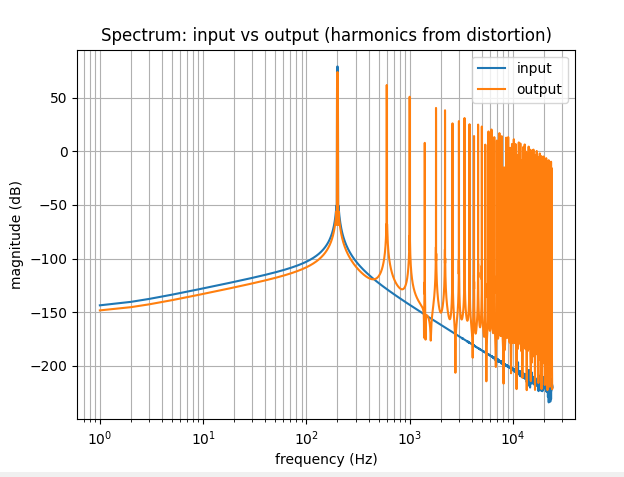
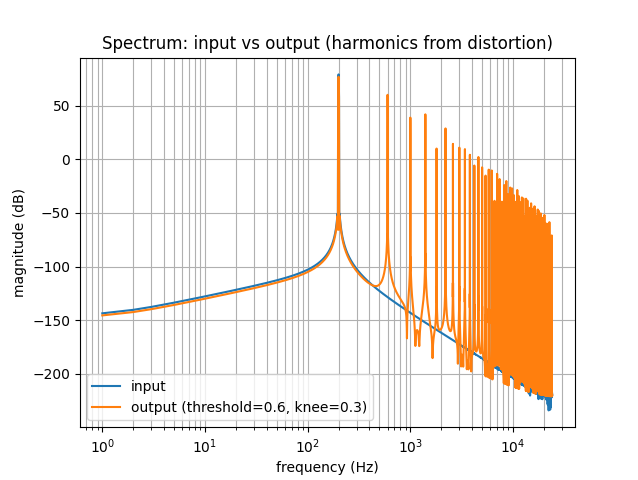
Fix (dsp): replace foldback-prone smootherstep knee with quartic curve

Changed region(s): [[0.0, 0.0587, 0.9135, 0.9979]]

diff --git a/prototype/waveshaper.py b/prototype/waveshaper.py
@@ -1,20 +1,13 @@
 import numpy as np
 import matplotlib.pyplot as plt
 
-def smoothstep(u):
-    u = np.clip(u, 0.0, 1.0)
-    return u*u*(3 - 2*u)
-
-
-def smootherstep(u):
-    u = np.clip(u, 0.0, 1.0)
-    return  u*u*u*(u*(u*6 - 15) + 10)
-
+def quartic(u):
+    return u - u**3 + 1/2 * u **4
 
 def waveshape(x, threshold, knee_frac):
     x = np.asarray(x, dtype=np.float32)
     t = np.clip(threshold, 0.01, 1.0)
-    k = np.clip(knee_frac, 0.0, 0.49)
+    k = np.clip(knee_frac, 0.0, 0.5)
 
     a = t * (1.0 - k)   # knee start
     b = t * (1.0 + k)   # knee end
@@ -38,8 +31,8 @@ def waveshape(x, threshold, knee_frac):
     if np.any(m2):
         u = (ax[m2] - a) / (b - a)
         u = np.clip(u, 0.0, 1.0)
-        s = smootherstep(u)
-        yk = (1.0 - s) * ax[m2] + s * t
+        q = quartic(u)
+        yk = a + (b-a) * q
         y[m2] = sign[m2] * yk
 
     return y
@@ -53,9 +46,9 @@ if __name__ == "__main__":
     xs = np.linspace(-1.2, 1.2, 4000)
 
     settings = [
-        (0.6, 0.0),  # hard clip at +-0.6
-        (0.6, 0.1),  # slightly softer knee
-        (1, 0.5),    # wide knee
+        (0.7, 0.0),  # hard clip at +-0.7
+        (0.6, 0.3),  # softer knee
+        (0.4, 0.5),  # wide knee
         (0.3, 0.1),  # lower threshold = heavier distortion
     ]
 
@@ -73,16 +66,21 @@ if __name__ == "__main__":
     # (2) Time domain: sine before/after
     fs = 48000
     f = 200
-    dur = 256 / 48000
-    n = int(fs * dur)
-    tvec = np.arange(n) / fs
+    buffer_size_samples = 256
+    duration_seconds = buffer_size_samples / fs
+    total_samples = int(fs * duration_seconds)
+    tvec = np.arange(total_samples) / fs
+    tvec_ms = tvec * 1000
 
+    # select settings
+    threshold = settings[1][0]
+    knee = settings[1][1]
     x = 0.9 * np.sin(2*np.pi*f*tvec)
-    y = waveshape(x, threshold=0.5, knee_frac=0.4)
+    y = waveshape(x, threshold=threshold, knee_frac=knee)
 
     plt.figure()
-    plt.plot(tvec*1000, x, label="input")
-    plt.plot(tvec*1000, y, label="output")
+    plt.plot(tvec_ms, x, label="input")
+    plt.plot(tvec_ms, y, label=f"output (threshold={threshold}, knee={knee})")
     plt.title("Time domain: sine before/after waveshaping")
     plt.xlabel("time (ms)")
     plt.ylabel("amplitude")
@@ -96,7 +94,8 @@ if __name__ == "__main__":
     tvec = np.arange(n) / fs
 
     x = 0.9 * np.sin(2*np.pi*f*tvec)
-    y = waveshape(x, threshold=0.4, knee_frac=0.0)
+    knee = settings[1][1]
+    y = waveshape(x, threshold=threshold, knee_frac=knee)
 
     w = np.blackman(n)
     X = np.fft.rfft(x * w)
@@ -105,22 +104,10 @@ if __name__ == "__main__":
 
     plt.figure()
     plt.semilogx(freqs[1:], 20*np.log10(np.abs(X[1:]) + 1e-12), label="input")
-    plt.semilogx(freqs[1:], 20*np.log10(np.abs(Y[1:]) + 1e-12), label="output")
+    plt.semilogx(freqs[1:], 20*np.log10(np.abs(Y[1:]) + 1e-12), label=f"output (threshold={threshold}, knee={knee})")
     plt.title("Spectrum: input vs output (harmonics from distortion)")
     plt.xlabel("frequency (Hz)")
     plt.ylabel("magnitude (dB)")
     plt.grid(True, which="both")
     plt.legend()
-    plt.show()
-
-    Y = np.fft.rfft(y)
-    freqs = np.fft.rfftfreq(n, 1/fs)
-    plt.semilogx(freqs[1:], 20*np.log10(np.abs(Y[1:]) + 1e-12))
-    plt.grid(True, which="both")
-    plt.title("Spectrum: input vs output (harmonics from distortion)")
-    plt.xlabel("frequency (Hz)")
-    plt.ylabel("magnitude (linear)")
-    plt.grid(True, which="both")
-    plt.legend()
-    plt.show()
     plt.show()

diff --git a/effects/Distortion.cpp b/effects/Distortion.cpp
@@ -27,7 +27,7 @@ void HTekDistortionEffect::reset()
     _postLPF.reset();
 }
 
-inline float HTekDistortionEffect::_waveshape(float x, float threshold, float kneeFrac) noexcept
+inline float HTekDistortionEffect::waveshape(float x, float threshold, float kneeFrac) noexcept
 {
     const float t = juce::jlimit(0.05f, 1.0f, threshold);
     const float knee = juce::jlimit(0.0f, 0.5f, kneeFrac);
@@ -38,20 +38,28 @@ inline float HTekDistortionEffect::_waveshape(float x, float threshold, float kn
     const float sign = (x >= 0.0f) ? 1.0f : -1.0f;
 
     const float absX = x >= 0 ? x : -x;
-    // Region 1
-    if (absX <= a) // normally assignment falls in Region 3 but since we'll get the same result with |x| = a we avoid the Region 3 extra calculations
+    /* Region 1 (linear region)*/
+    if (absX <= a)
         return x;
 
-    // Region 2
-    if (absX >= b) // normally assignment falls in Region 3 but since we'll get the same result with |x| = b we avoid the Region 3 extra calculations
+    /* Region 3 (hard-clip region) */
+    if (absX >= b)
         return sign * t;
     
-    // Region 3 https://en.wikipedia.org/wiki/Smoothstep
-    // Map ax in [a,b] to u in [0,1], then smoothstep to interpolate to hard clip.
-    const float u = (absX - a) / (b - a);
-    // const float s = u * u * (3.0f - 2.0f * u); // smoothstep
-    const float s = u*u*u*(u*(u*6.0f - 15.0f) + 10.0f); // smootherstep
-    const float y = (1.0f - s) * absX + s * t;
+    /* Region 2 (knee region) */
+    // Map ax in [a,b] to u in [0,1].
+    const float u  = (absX - a) / (b - a);
+    // C^2 quartic transition
+    const float u2 = u * u;
+    const float u3 = u2 * u;
+    const float u4 = u3 * u;
+    const float q = u - u3 + 0.5f * u4; //  q has no audio amplitude scale here
+
+    // convert the normalized curved progress back to output amplitude.
+    // |-> at start q = 0 => y = a
+    // |-> at the end q = 0.5 => y = (a+b)/2 = t
+    // |-> during the transition from start to end => quartic transition
+    const float y = a + (b - a) * q; 
     return sign * y;
 }
 
@@ -78,7 +86,7 @@ void HTekDistortionEffect::process (juce::dsp::AudioBlock<float>& block) noexcep
     _preHPF.process (ctx);
 
     const float b  = juce::jlimit (-0.5f, 0.5f, p.bias);
-    const float y0 = _waveshape (b, p.threshold, p.knee);
+    const float y0 = waveshape (b, p.threshold, p.knee);
 
     for (int ch = 0; ch < numChannels; ++ch)
     {
@@ -89,7 +97,7 @@ void HTekDistortionEffect::process (juce::dsp::AudioBlock<float>& block) noexcep
             const float dry = data[i];
             const float x   = dry * drive;
 
-            float y = _waveshape (x + b, p.threshold, p.knee) - y0; // DC-correction (subtract y0 = f(b)) -> y = f(x+b) - f(b) and if x = 0 then y = 0
+            float y = waveshape (x + b, p.threshold, p.knee) - y0; // DC-correction (subtract y0 = f(b)) -> y = f(x+b) - f(b) and if x = 0 then y = 0
             y *= outGain;
 
             data[i] = dry + (y - dry) * mix; // dry*(1−mix) + y*mix but with 3 operations than 4

diff --git a/effects/tests/DistortionTests.cpp b/effects/tests/DistortionTests.cpp
@@ -66,6 +66,9 @@ TEST_CASE("Waveshaper: Region 2 / Hard clipping")
 
 TEST_CASE("Waveshaper: Region 3 (knee) properties")
 {
+    //input knee: ∣x∣ travels from a to b
+    // output knee: ∣y∣ travels from a to t
+    // output never exceeds the input magnitude
     const float t    = 0.5f;
     const float knee = 0.2f;
 
@@ -79,7 +82,6 @@ TEST_CASE("Waveshaper: Region 3 (knee) properties")
     REQUIRE(HTekDistortionEffect::waveshapeTest(-b, t, knee) == Catch::Approx(-t).margin( 1e-6f));
 
     const int N = 1000;
-    float prevAbsY = 0.0f;
 
     for (int i = 1; i < N; ++i)
     {
@@ -94,13 +96,49 @@ TEST_CASE("Waveshaper: Region 3 (knee) properties")
             // sign preserved
             REQUIRE((y >= 0.0f) == (x >= 0.0f));
 
-            // |y| in range  (|x|, t)
-            // as |y| is a weighted average between |x| and t -> y = (1-s) * |x| + s * t
-            const float lower = std::min(absX, t);
-            const float upper = std::max(absX, t);
-            REQUIRE(absY >= lower - 1e-6f);
-            REQUIRE(absY <= upper + 1e-6f);
+            // |y| in range  (a, t)
+            REQUIRE(absY >= a - 1e-6f);
+            REQUIRE(absY <= t + 1e-6f);
+
+            // |y| <= |x|
+            REQUIRE(absY <= absX + 1e-6f);
         }
+    }
+}
+
+TEST_CASE("Waveshaper: Region 3 (knee) is strictly monotonic")
+{
+    const float t    = 0.8f;
+    const float knee = 0.1f;
+
+    const float a = t * (1.0f - knee);
+    const float b = t * (1.0f + knee);
+
+    /* ! Do not use an extremely large N here !
+                    Why?
+    * Near b, the quartic becomes almost flat because its
+    * derivative approaches zero. With float precision,
+    * two extremely close input values can round to exactly
+    * the same output float!
+    */
+    constexpr int N = 64;
+
+    float previousX = a;
+    float previousY = HTekDistortionEffect::waveshapeTest(previousX, t, knee);
+    constexpr float du = 1.0f / static_cast<float>(N);
+    for (int i = 1; i <= N; ++i)
+    {
+        const float u = static_cast<float>(i) * du;
+        const float x = a + (b - a) * u;
+
+        const float y = HTekDistortionEffect::waveshapeTest(x, t, knee);
+
+        // Strict monotonicity: x increased, therefore y must also increase.
+        REQUIRE(x > previousX);
+        REQUIRE(y > previousY);
+
+        previousX = x;
+        previousY = y;
     }
 }
 

diff --git a/effects/Distortion.hpp b/effects/Distortion.hpp
@@ -28,7 +28,7 @@ class HTekDistortionEffect final : public IEffect
         static float waveshapeTest(float x, float threshold, float kneeFrac) noexcept
         {
             HTekDistortionEffect d;
-            return d._waveshape(x, threshold, kneeFrac);
+            return d.waveshape(x, threshold, kneeFrac);
         }
         #endif
 
@@ -40,5 +40,5 @@ class HTekDistortionEffect final : public IEffect
         /* Smooth hard clip with soft-knee transition*/
         // - bias adds asymmetry (even harmonics)
         // - knee softens around threshold
-        inline float _waveshape(float x, float threshold, float kneeFrac) noexcept;
+        inline float waveshape(float x, float threshold, float kneeFrac) noexcept;
 };
